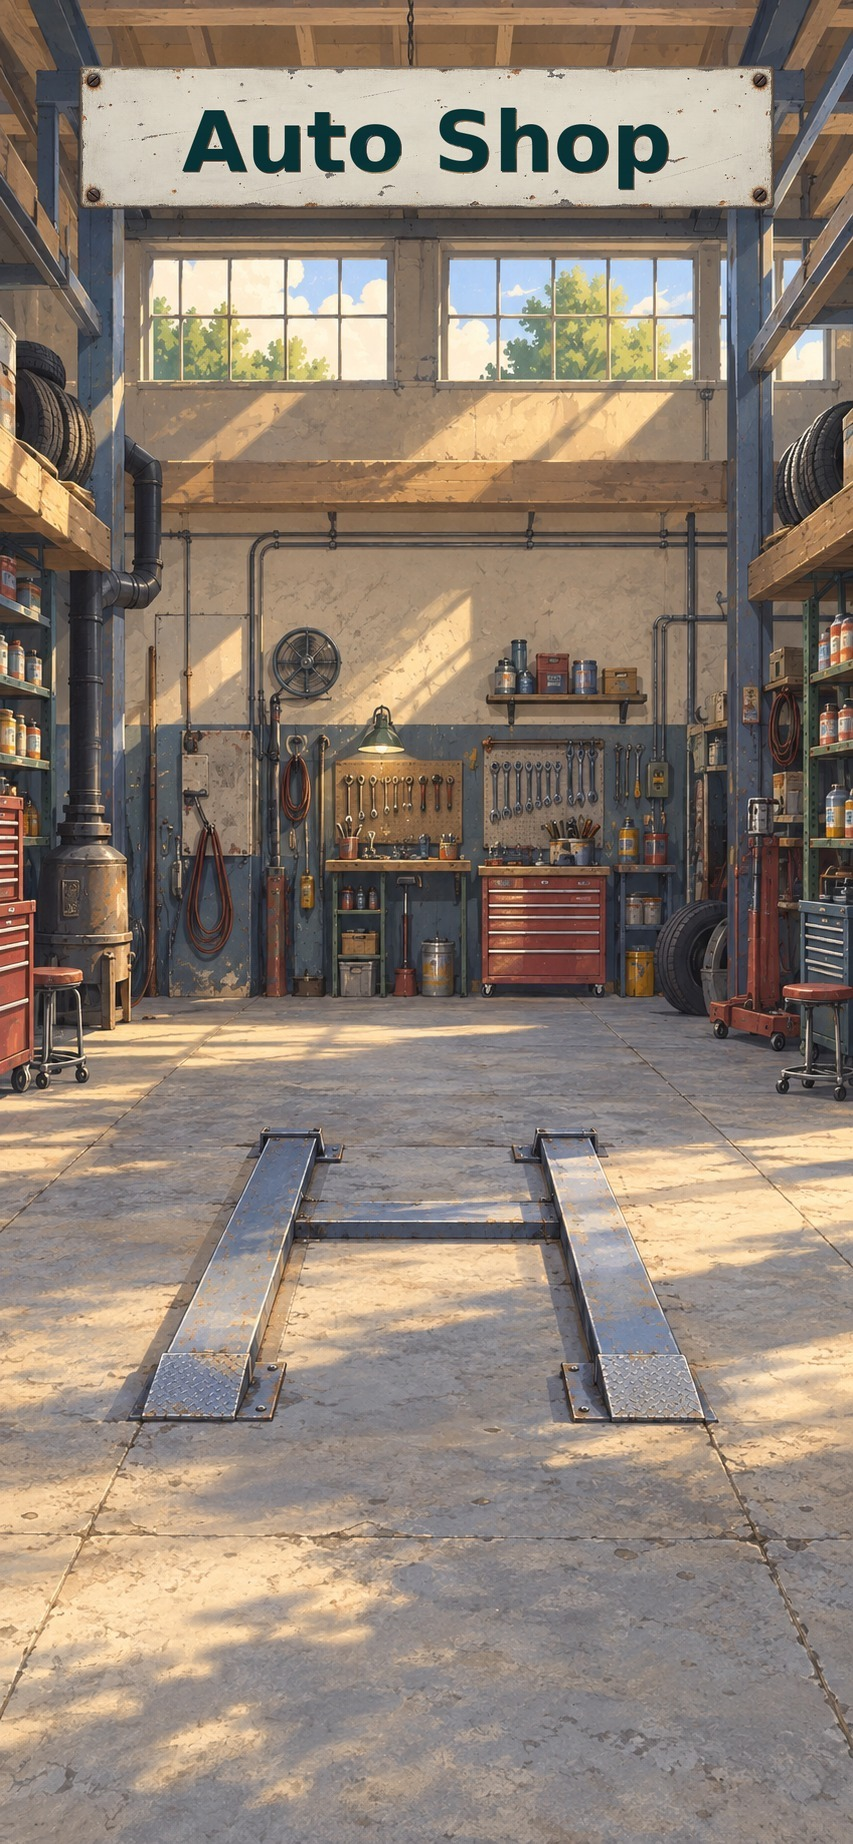
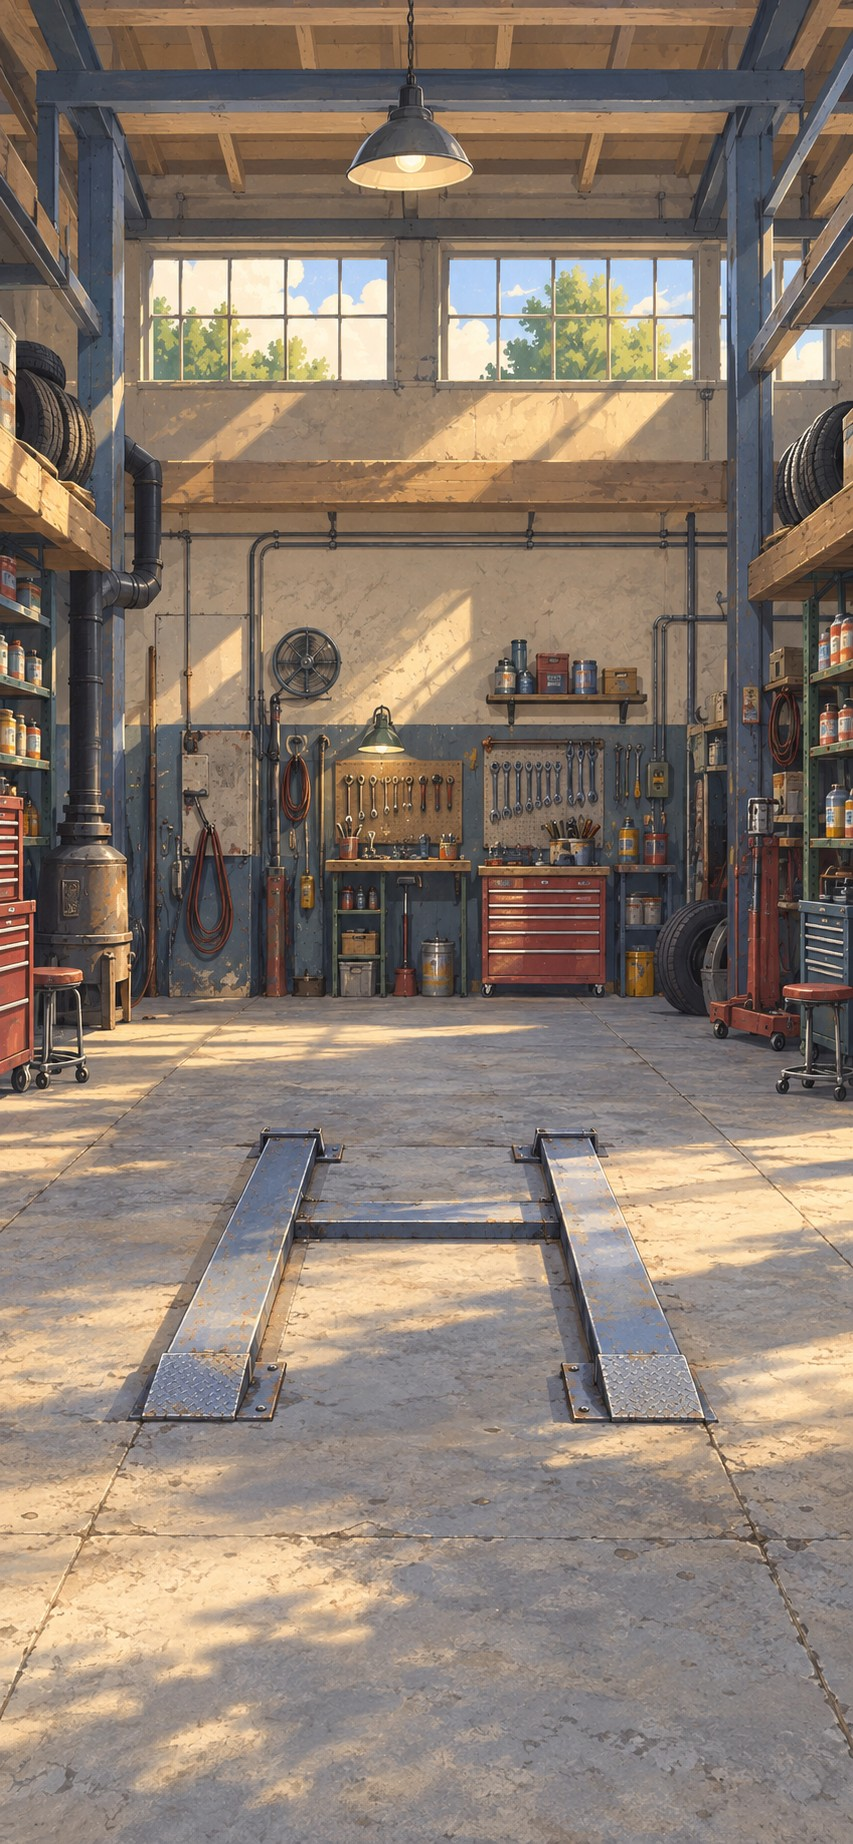
Match Auto Shop sign to Figma and remove part picker cards.
Overlay the rusty metal plate + Inter title from the design instead of the baked cream sign, refresh the garage background without a baked-in plate, and delete the three accessory toggle cards.

Changed region(s): [[0.0914, 0.0309, 0.9144, 0.1236]]

diff --git a/sticker-prototype/src/auto-shop/AutoShop.css b/sticker-prototype/src/auto-shop/AutoShop.css
@@ -4,6 +4,7 @@
   background-size: cover;
   background-position: center top;
   background-repeat: no-repeat;
+  position: relative;
 }
 
 /* Beat .selection-screen center-top so the lift rails stay in frame. */
@@ -19,6 +20,57 @@
   background-repeat: no-repeat;
 }
 
+/* Figma 17545:4167 — rusty metal plate overlay (393 phone frame). */
+.auto-shop-sign {
+  position: absolute;
+  z-index: 3;
+  left: 22px;
+  top: 65px;
+  width: 351px;
+  height: 94px;
+  margin: 0;
+  padding: 0;
+  pointer-events: none;
+}
+
+.auto-shop-sign-plate {
+  position: absolute;
+  inset: 0;
+  overflow: hidden;
+  pointer-events: none;
+}
+
+.auto-shop-sign-plate img {
+  position: absolute;
+  inset: 0;
+  width: 100%;
+  height: 100%;
+  object-fit: fill;
+  display: block;
+  user-select: none;
+  -webkit-user-drag: none;
+  pointer-events: none;
+}
+
+/* Figma 17545:4168 — Inter Bold 28 / #063235 over the plate. */
+.auto-shop-sign-title {
+  position: absolute;
+  left: 50%;
+  top: 50%;
+  width: 308px;
+  margin: 0;
+  padding: 0;
+  transform: translate(-50%, -50%);
+  font-family: Inter, 'SF Pro Text', system-ui, sans-serif;
+  font-weight: 700;
+  font-size: 28px;
+  line-height: 1.2;
+  letter-spacing: -0.28px;
+  color: #063235;
+  text-align: center;
+  white-space: nowrap;
+}
+
 .auto-shop-layout {
   box-sizing: border-box;
   flex: 1;
@@ -27,17 +79,10 @@
   display: flex;
   flex-direction: column;
   align-items: center;
-  padding: 12px 0 0;
+  /* Clear the absolute sign (top 65 + height 94). */
+  padding: 159px 0 0;
   gap: 0;
   position: relative;
-}
-
-.auto-shop-sign-space {
-  flex-shrink: 0;
-  width: 100%;
-  height: 92px;
-  margin-top: 4px;
-  pointer-events: none;
 }
 
 .auto-shop-stage {
@@ -245,87 +290,6 @@
   padding: 28px 20px 0;
 }
 
-
-.part-picker {
-  width: 100%;
-  max-width: 360px;
-  display: flex;
-  align-items: stretch;
-  justify-content: center;
-  gap: 10px;
-  padding: 0 4px;
-}
-
-.part-picker-item {
-  flex: 1 1 0;
-  min-width: 0;
-  display: flex;
-  flex-direction: column;
-  align-items: center;
-  gap: 6px;
-  padding: 10px 8px 8px;
-  border: 1.5px solid rgba(255, 255, 255, 0.28);
-  border-radius: 14px;
-  background: rgba(255, 255, 255, 0.1);
-  color: #ffffff;
-  cursor: pointer;
-  transition: background 140ms ease, border-color 140ms ease, transform 140ms ease;
-}
-
-.part-picker-item--selected {
-  background: rgba(255, 255, 255, 0.22);
-  border-color: #ffffff;
-  box-shadow: 0 0 0 1px rgba(255, 255, 255, 0.35);
-}
-
-.part-picker-item:hover:not(:disabled) {
-  background: rgba(255, 255, 255, 0.16);
-}
-
-.part-picker-item:active:not(:disabled) {
-  transform: scale(0.97);
-}
-
-.part-picker-item:focus-visible {
-  outline: 2px solid #ffffff;
-  outline-offset: 2px;
-}
-
-.part-picker-item:disabled {
-  opacity: 0.5;
-  cursor: default;
-}
-
-.part-picker-thumb {
-  width: 100%;
-  height: 72px;
-  display: grid;
-  place-items: center;
-}
-
-.part-picker-thumb img {
-  max-width: 100%;
-  max-height: 72px;
-  width: auto;
-  height: auto;
-  object-fit: contain;
-  display: block;
-  filter: drop-shadow(0 2px 4px rgba(0, 0, 0, 0.35));
-  pointer-events: none;
-  user-select: none;
-}
-
-.part-picker-label {
-  font-size: 11px;
-  font-weight: 600;
-  letter-spacing: -0.2px;
-  line-height: 1.2;
-  text-align: center;
-  white-space: nowrap;
-  overflow: hidden;
-  text-overflow: ellipsis;
-  max-width: 100%;
-}
 
 .part-navigation {
   width: 100%;

diff --git a/sticker-prototype/src/auto-shop/AutoShopContent.tsx b/sticker-prototype/src/auto-shop/AutoShopContent.tsx
@@ -1,9 +1,9 @@
 import { useEffect, useRef, useState } from 'react'
 import { vanParts, type VanPart } from '../data/vanParts'
 import garageBackground from '../assets/auto-shop/garage-bg.jpg'
+import autoShopSign from '../assets/auto-shop/auto-shop-sign.png'
 import { AddToVanButton } from './AddToVanButton'
 import { PartNavigation } from './PartNavigation'
-import { PartPicker } from './PartPicker'
 import { VanPreviewStage } from './VanPreviewStage'
 import './AutoShop.css'
 
@@ -67,10 +67,15 @@ export function AutoShopContent({
       className="auto-shop selection-screen selection-screen--sheet selection-screen--sheet-open"
       style={{ backgroundImage: `url(${garageBackground})` }}
     >
-      <div className="auto-shop-layout">
-        {/* Sign is painted onto the garage beam — keep empty space so it stays visible. */}
-        <div className="auto-shop-sign-space" aria-hidden="true" />
+      {/* Figma 17545:4167 + 17545:4168 — metal plate overlay + title, not baked into garage. */}
+      <header className="auto-shop-sign" aria-label="Auto Shop">
+        <div className="auto-shop-sign-plate" aria-hidden="true">
+          <img src={autoShopSign} alt="" draggable={false} />
+        </div>
+        <h1 className="auto-shop-sign-title">Auto Shop</h1>
+      </header>
 
+      <div className="auto-shop-layout">
         <VanPreviewStage
           part={activePart}
           transitioning={isTransitioning}
@@ -82,13 +87,6 @@ export function AutoShopContent({
         <div className="auto-shop-footer">
           <div className="auto-shop-footer-scrim" aria-hidden="true" />
           <div className="auto-shop-footer-content">
-            <PartPicker
-              parts={vanParts}
-              activePartId={activePart.id}
-              onSelect={goToIndex}
-              disabled={isConfirming}
-            />
-
             <PartNavigation
               partName={activePart.name}
               partDescription={activePart.description}

diff --git a/sticker-prototype/index.html b/sticker-prototype/index.html
@@ -6,7 +6,7 @@
     <meta name="viewport" content="width=device-width, initial-scale=1.0" />
     <link rel="preconnect" href="https://fonts.googleapis.com" />
     <link rel="preconnect" href="https://fonts.gstatic.com" crossorigin />
-    <link href="https://fonts.googleapis.com/css2?family=Bebas+Neue&display=swap" rel="stylesheet" />
+    <link href="https://fonts.googleapis.com/css2?family=Bebas+Neue&family=Inter:wght@400;700&display=swap" rel="stylesheet" />
     <title>HMM sticker prototype</title>
   </head>
   <body>
